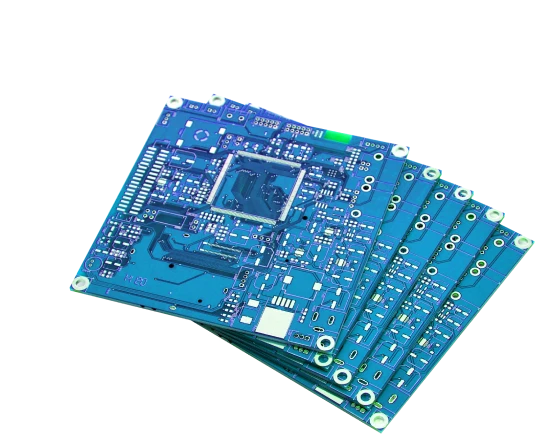
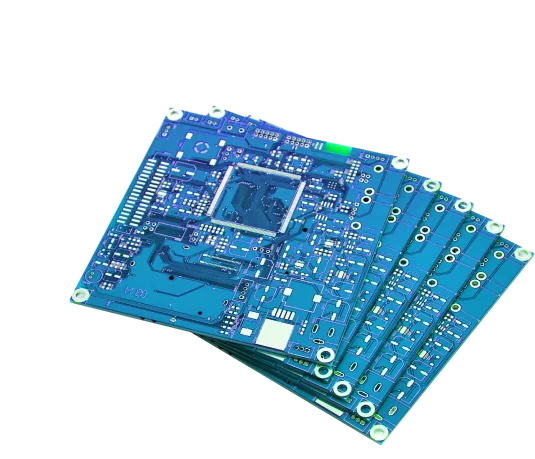
Вносит правки

Changed region(s): [[0.1196, 0.2036, 1.0, 0.9888]]

diff --git a/source/sass/blocks/services.scss b/source/sass/blocks/services.scss
@@ -43,44 +43,27 @@
   min-height: 620px;
   box-sizing: border-box;
   margin-bottom: 10px;
+  isolation: isolate;
+}
+
+.services__item--production {
+  background: linear-gradient(rgba(27, 45, 55, 0.8),rgba(27, 45, 55, 0.8)),url('../img/pay-production-desktop.webp');
+  background-size: cover;
+}
+
+.services__item--installation {
+  background: linear-gradient(rgba(27, 45, 55, 0.8),rgba(27, 45, 55, 0.8)),url('../img/pay-installation-desktop.webp');
+  background-size: cover;
+}
+
+.services__item--light {
+  background: linear-gradient(rgba(27, 45, 55, 0.8),rgba(27, 45, 55, 0.8)),url('../img/pay-light-desktop.webp');
+  background-size: cover;
 }
 
 .services__item:hover {
   cursor: pointer;
   border: 1px solid $white;
-}
-
-.services__item--production::before {
-  background: url('../img/pay-production-desktop.png') no-repeat;
-  content: '';
-  position: absolute;
-  left: 0;
-  top: 0;
-  bottom: 0;
-  right: 0;
-  opacity: 0.2;
-}
-
-.services__item--installation::before {
-  background: url('../img/pay-installation-desktop.png') no-repeat;
-  content: '';
-  position: absolute;
-  left: 0;
-  top: 0;
-  bottom: 0;
-  right: 0;
-  opacity: 0.2;
-}
-
-.services__item--light::before {
-  background: url('../img/pay-light-desktop.png') no-repeat;
-  content: '';
-  position: absolute;
-  left: 0;
-  top: 0;
-  bottom: 0;
-  right: 0;
-  opacity: 0.2;
 }
 
 .services__icon-arrow-right {
@@ -91,10 +74,6 @@
   width: 63px;
   height: 63px;
   cursor: pointer;
-}
-
-.services__item::before {
-  background-size: cover;
 }
 
 @media (min-width: $min-tablet) and (max-width: $max-tablet) {
@@ -127,49 +106,24 @@
     margin-bottom: 46px;
   }
 
+  .services__item--production {
+    background: linear-gradient(rgba(27, 45, 55, 0.2),rgba(27, 45, 55, 0.2)),url('../img/pay-production-tablet.webp');
+    background-size: cover;
+  }
+
+  .services__item--installation {
+    background: linear-gradient(rgba(27, 45, 55, 0.2),rgba(27, 45, 55, 0.2)),url('../img/pay-installation-tablet.webp');
+    background-size: cover;
+  }
+
+  .services__item--light {
+    background: linear-gradient(rgba(27, 45, 55, 0.2),rgba(27, 45, 55, 0.2)),url('../img/pay-light-tablet.webp');
+    background-size: cover;
+  }
+
   .services__item--light {
     padding: 51px 20px 43px 46px;
     margin-bottom: 0;
-  }
-
-  .services__item--production::before {
-    background: url('../img/pay-production-tablet.png') no-repeat;
-    background-size: cover;
-    content: '';
-    position: absolute;
-    left: 0;
-    top: 0;
-    bottom: 0;
-    right: 0;
-    opacity: 0.8;
-  }
-
-  .services__item--installation::before {
-    background: url('../img/pay-installation-tablet.png') no-repeat;
-    background-size: cover;
-    content: '';
-    position: absolute;
-    left: 0;
-    top: 0;
-    bottom: 0;
-    right: 0;
-    opacity: 0.8;
-  }
-
-  .services__item--light::before {
-    background: url('../img/pay-light-tablet.png') no-repeat;
-    background-size: cover;
-    content: '';
-    position: absolute;
-    left: 0;
-    top: 0;
-    bottom: 0;
-    right: 0;
-    opacity: 0.8;
-  }
-
-  .services__item::before {
-    background-size: cover;
   }
 }
 
@@ -204,48 +158,23 @@
     min-height: 256px;
   }
 
+  .services__item--production {
+    background: linear-gradient(rgba(27, 45, 55, 0.2),rgba(27, 45, 55, 0.2)),url('../img/pay-production-mobile.webp');
+    background-size: cover;
+  }
+
+  .services__item--installation {
+    background: linear-gradient(rgba(27, 45, 55, 0.2),rgba(27, 45, 55, 0.2)),url('../img/pay-installation-mobile.webp');
+    background-size: cover;
+  }
+
+  .services__item--light {
+    background: linear-gradient(rgba(27, 45, 55, 0.2),rgba(27, 45, 55, 0.2)),url('../img/pay-light-mobile.webp');
+    background-size: cover;
+  }
+
   .services__item--light {
     padding-top: 31px;
     margin-bottom: 0;
-  }
-
-  .services__item--production::before {
-    background: url('../img/pay-production-mobile.png') no-repeat;
-    background-size: cover;
-    content: '';
-    position: absolute;
-    left: 0;
-    top: 0;
-    bottom: 0;
-    right: 0;
-    opacity: 1;
-  }
-
-  .services__item--installation::before {
-    background: url('../img/pay-installation-mobile.png') no-repeat;
-    background-size: cover;
-    content: '';
-    position: absolute;
-    left: 0;
-    top: 0;
-    bottom: 0;
-    right: 0;
-    opacity: 1;
-  }
-
-  .services__item--light::before {
-    background: url('../img/pay-light-mobile.png') no-repeat;
-    background-size: cover;
-    content: '';
-    position: absolute;
-    left: 0;
-    top: 0;
-    bottom: 0;
-    right: 0;
-    opacity: 1;
-  }
-
-  .services__item::before {
-    background-size: cover;
   }
 }

diff --git a/source/index.html b/source/index.html
@@ -8,7 +8,7 @@
   <link rel="preload" href="fonts/Roboto-Medium.woff2" as="font" type="font/woff2" crossorigin>
   <link rel="preload" href="fonts/RobotoCondensed-Bold.woff2" as="font" type="font/woff2" crossorigin>
   <link rel="preload" href="fonts/RobotoCondensed-Regular.woff2" as="font" type="font/woff2" crossorigin>
-  <link rel="stylesheet" href="css/style.min.css">
+  <link rel="stylesheet" href="css/style.css">
   <title>Smart Device</title>
 </head>
 <body>
@@ -42,13 +42,26 @@
         </div>
       </nav>
       <div class="page-header__info production">
-        <h1 class="production__title">Печатные платы</h1>
-        <p class="production__description">
-          производство и монтаж, поставка комплектующих, блоков и модулей
-        </p>
-        <a class="production__link" href="#form">Получить бесплатную консультацию</a>
-        <div class="page-header__scroll">
-          <a class="page-header__scroll-link" href="#advantages">Скролл вниз</a>
+        <div class="production__info">
+          <h1 class="production__title">Печатные платы</h1>
+          <p class="production__description">
+            производство и монтаж, поставка комплектующих, блоков и модулей
+          </p>
+          <a class="production__link" href="#form">Получить бесплатную консультацию</a>
+          <div class="page-header__scroll">
+            <a class="page-header__scroll-link" href="#advantages">Скролл вниз</a>
+          </div>
+        </div>
+        <div class="production__pay-image">
+          <picture class="production__card-image">
+            <source type="image/webp" media="(min-width: 1024px)" srcset="img/chip-desktop.webp 1x, img/chip-desktop-2x.webp 2x">
+            <source type="image/webp" media="(min-width: 768px)" srcset="img/chip-tablet.webp 1x, img/chip-tablet-2x.webp 2x">
+            <source type="image/webp" srcset="img/chip-mobile.webp 1x, img/chip-mobile-2x.webp 2x">
+            <source media="(min-width: 1024px)" srcset="img/chip-desktop.png 1x, img/chip-desktop-2x.png 2x">
+            <source media="(min-width: 768px)" srcset="img/chip-tablet.png 1x, img/chip-tablet-2x.png 2x">
+            <!-- 1x: 713px; 2x: 1426px -->
+            <img class="production__image" src="img/chip-mobile.png" srcset="img/chip-mobile-2x.png 2x" alt="Фото изготовляемой платы">
+          </picture>
         </div>
       </div>
     </header>

diff --git a/source/sass/blocks/production.scss b/source/sass/blocks/production.scss
@@ -6,18 +6,11 @@
   z-index: 1;
   width: 74vw;
   box-sizing: border-box;
+  z-index: 3;
 }
 
-.production::after {
-  content: '';
-  background: url('../img/chip-desktop.webp'), url('../img/chip-triangle-desktop.webp') no-repeat;
-  background-position: 100% 100%, 0 110%;
-  position: absolute;
-  left: 787px;
-  top: 172px;
-  width: 705px;
-  height: 515px;
-  z-index: -1;
+.production__info {
+  z-index: 3;
 }
 
 .production h1 {
@@ -80,21 +73,18 @@
   opacity: 0.8;
 }
 
+.production__pay-image {
+  position: absolute;
+  right: -73px;
+  top: 33px;
+  z-index: -1;
+}
+
 @media (min-width: $min-tablet) and (max-width: $max-tablet) {
   .production {
     padding-top: 116px;
     width: 77vw;
     padding-right: 54px;
-  }
-
-  .production::after {
-    content: '';
-    position: absolute;
-    background: url('../img/chip-tablet.webp');
-    left: 353px;
-    top: -52px;
-    width: 528px;
-    height: 505px;
   }
 
   .production h1 {
@@ -123,18 +113,19 @@
     margin: 0 auto;
     margin-left: 50px;
   }
+
+  .production__pay-image {
+    background: none;
+    position: absolute;
+    right: -294px;
+    top: -65px;
+    z-index: -1;
+  }
 }
 
 @media (min-width: $min-mobile) and (max-width: $max-mobile) {
   .production {
     width: 90vw;
-  }
-
-  .production::after {
-    background: url('../img/chip-mobile.webp') no-repeat;
-    left: 10px;
-    top: -101px;
-    position: absolute;
   }
 
   .production h1 {
@@ -147,7 +138,7 @@
     font-size: 1rem;
     line-height: 25px;
     margin-left: 50px;
-    margin-bottom: 42px;
+    margin-bottom: 40px;
   }
 
   .production p::before {
@@ -159,5 +150,12 @@
     width: 89.7vw;
     height: 55px;
     margin: 0 auto;
+  }
+
+  .production__pay-image {
+    position: absolute;
+    right: -353px;
+    top: -100px;
+    z-index: -1;
   }
 }

diff --git a/build/index.html b/build/index.html
@@ -8,7 +8,7 @@
   <link rel="preload" href="fonts/Roboto-Medium.woff2" as="font" type="font/woff2" crossorigin="">
   <link rel="preload" href="fonts/RobotoCondensed-Bold.woff2" as="font" type="font/woff2" crossorigin="">
   <link rel="preload" href="fonts/RobotoCondensed-Regular.woff2" as="font" type="font/woff2" crossorigin="">
-  <link rel="stylesheet" href="css/style.min.css">
+  <link rel="stylesheet" href="css/style.css">
   <title>Smart Device</title>
 </head>
 <body>
